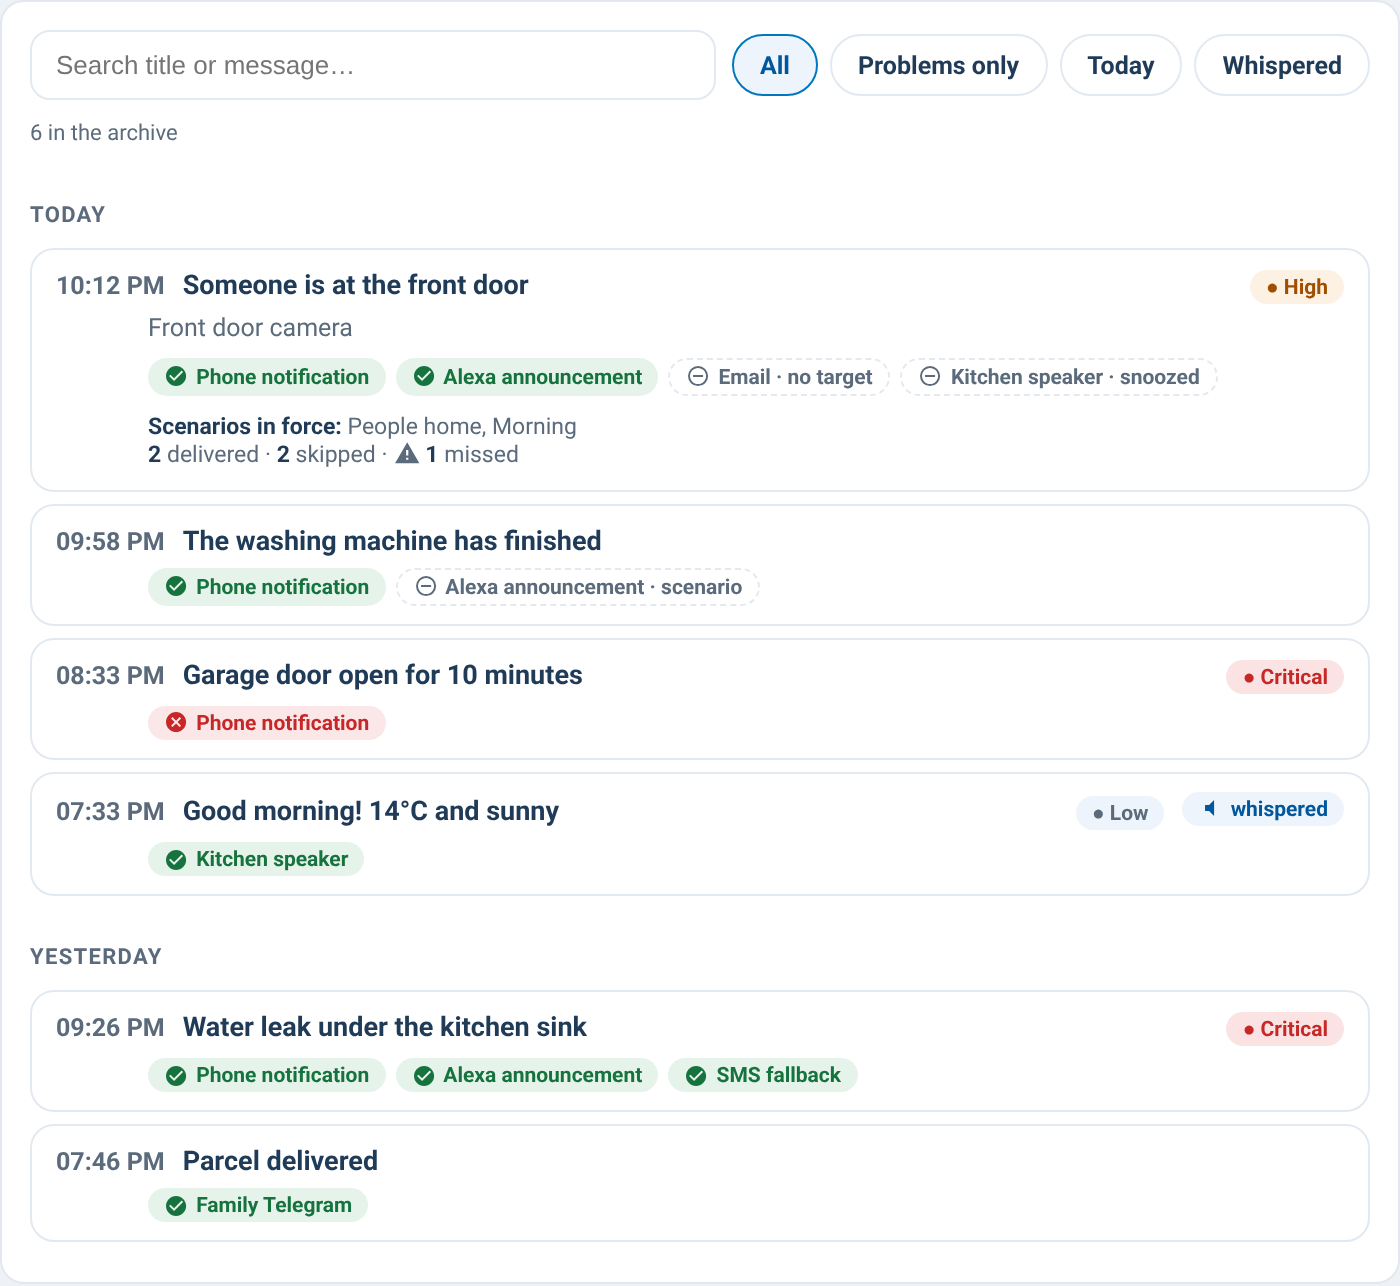
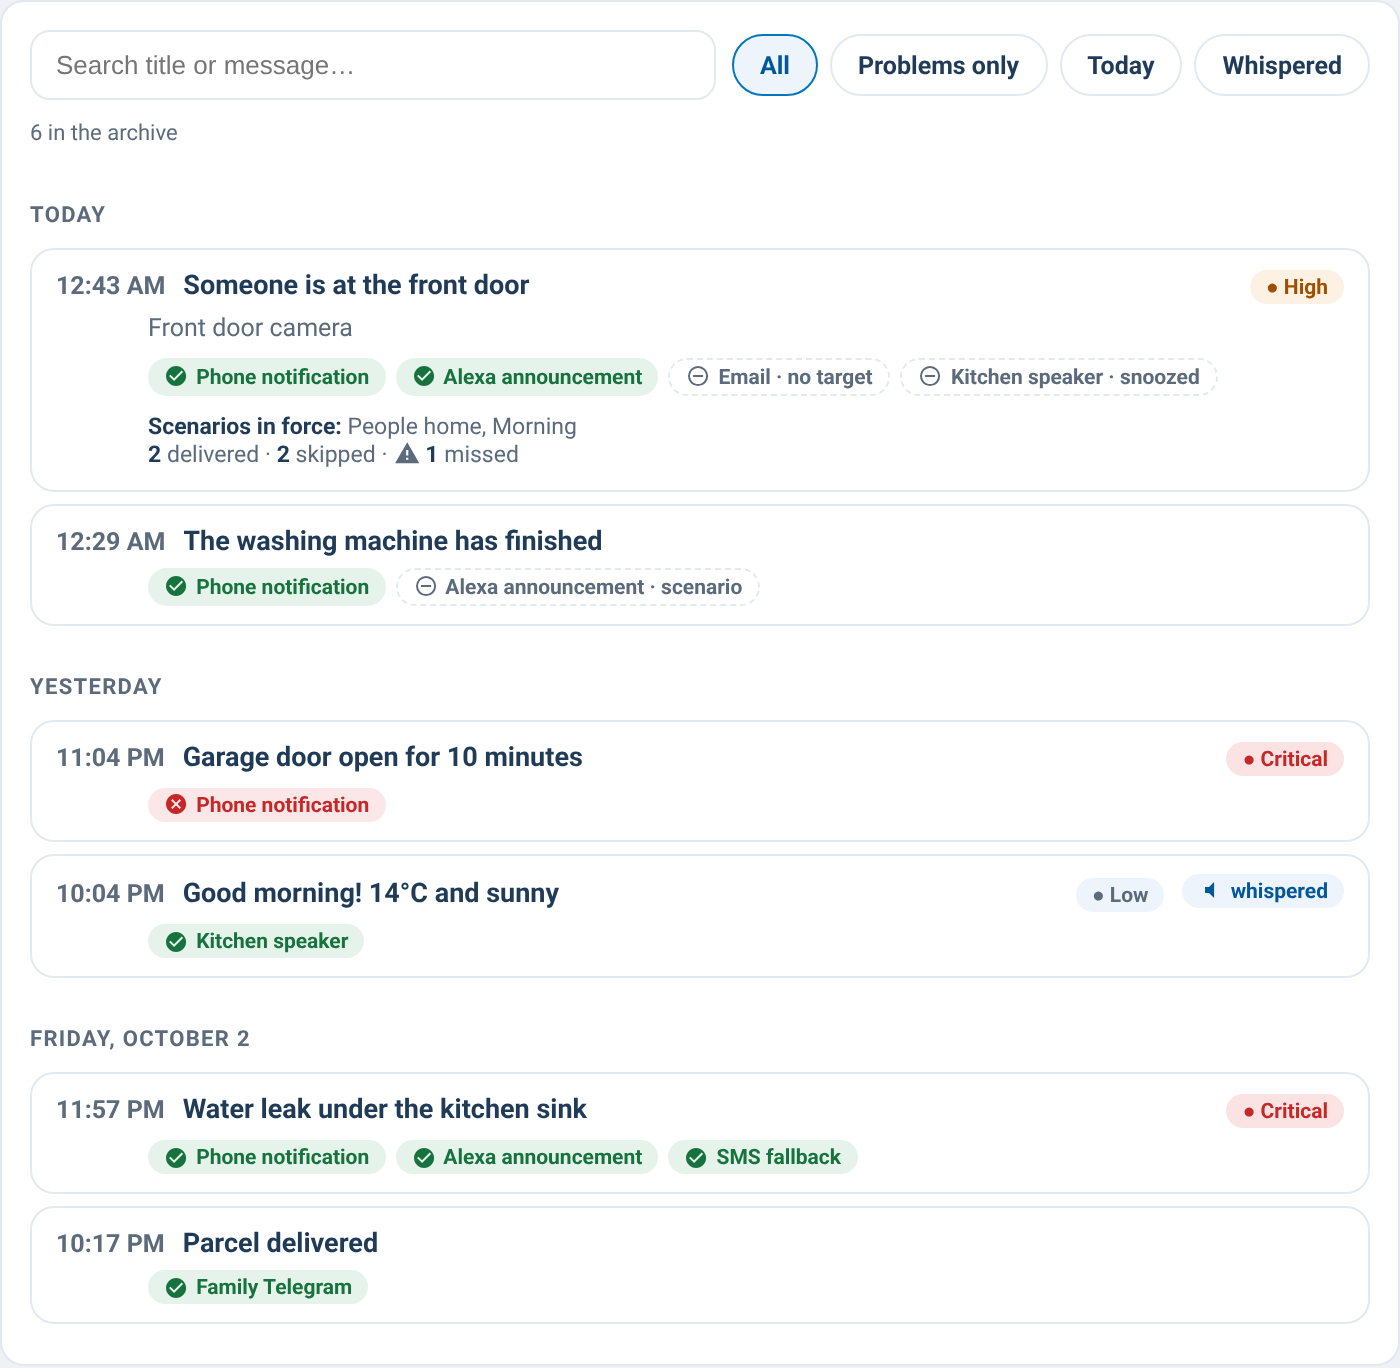
v0.60.0: real data - active scenarios from SuperNotify, notification title, real failures, toggle any domain, no double channels
Claude-Session: https://claude.ai/code/session_01ALt6dhzSXi9QkgiwPM6yvM

diff --git a/dist/supernotify-control-card.js b/dist/supernotify-control-card.js
@@ -8,6 +8,15 @@
  * Example config: see README.md
  *
  * CHANGELOG
+ * 2026-10-04 - v0.60.0. Real data (gap analysis of 03/10). (A1) Active scenarios come from
+ *   enquire_active_scenarios (snActive, every 30 s and after a change) - SuperNotify 2.12.0 can leave
+ *   the scenario binary_sensors at their startup value. (A2) snNotifTitle: the title lives in
+ *   condition_variables / the delivery envelopes, not at the top level (overview and control showed
+ *   no title). (A3) overview "Failures" = failed channel sends today from the archive;
+ *   sensor.supernotify_failures only counts crashes inside SuperNotify. (A8) control: tiles and group
+ *   pills toggle any domain (a switch.* DND did nothing). (A9) overview and composer list each
+ *   delivery once, by its name (switch over the deprecated binary_sensor); transports count "used
+ *   by" over every delivery.
  * 2026-10-03 - v0.59.2. No code change: README links the changelog near the top, so HACS shows it.
  * 2026-10-03 - v0.59.1. Contrast measured on every text of the 13 cards in both themes
  *   (tools/contrast_audit.mjs): light-theme green #1b7f45 -> #17733d (it was 4.2-4.4:1 on the green
@@ -392,7 +401,7 @@
  *   Backup of the pre-change file: X:\sn_backups\supernotify_cards_20260908\supernotify-control-card_pre_toggle.js
  */
 
-const VERSION = "0.59.2"; // bundle / HACS release
+const VERSION = "0.60.0"; // bundle / HACS release
 
 /**
  * Per-card versions: bumped ONLY when that card changes (the bundle VERSION
@@ -403,15 +412,15 @@ const VERSION = "0.59.2"; // bundle / HACS release
  * without a bump here.
  */
 const SN_CARD_VERSIONS = {
-  control: "0.30.3",
-  overview: "0.29.2",
+  control: "0.31.0",
+  overview: "0.30.0",
   bands: "0.20.1",
   deliveries: "0.26.1",
-  transports: "0.23.1",
+  transports: "0.23.2",
   recipients: "0.26.3",
-  scenarios: "0.25.1",
+  scenarios: "0.26.0",
   simulator: "0.15.2",
-  composer: "0.19.2",
+  composer: "0.19.3",
   automations: "0.20.2",
   stats: "0.28.2",
   archive: "0.36.3",
@@ -434,7 +443,7 @@ const SN_STRINGS = {
     announced: "Announced", cleared: "Snoozes cleared",
     snoozed_for: "Snoozed non-critical notifications for",
     sent: "Sent", sent_today: "Sent today", since_startup: "since startup",
-    yesterday: "yesterday", failures: "Failures", deliveries: "Deliveries",
+    yesterday: "yesterday", failures: "Failures", fail_today: "failed channel sends today", deliveries: "Deliveries",
     enabled_total: "enabled/total", last_notif: "Last notification",
     transports: "Transports", delivered: "delivered", failed: "failed",
     channels: "channels", none: "none", no_transports: "no transport entities found", tr_used: "used by", tr_unused: "no channel uses it",
@@ -525,7 +534,7 @@ const SN_STRINGS = {
     announced: "Annunciato", cleared: "Pause annullate",
     snoozed_for: "Notifiche non critiche in pausa per",
     sent: "Inviate", sent_today: "Inviate oggi", since_startup: "dall'avvio",
-    yesterday: "ieri", failures: "Fallimenti", deliveries: "Delivery",
+    yesterday: "ieri", failures: "Fallimenti", fail_today: "invii falliti oggi", deliveries: "Delivery",
     enabled_total: "attive/totali", last_notif: "Ultima notifica",
     transports: "Transport", delivered: "consegnata", failed: "fallite",
     channels: "canali", none: "nessuno", no_transports: "nessuna entità transport trovata", tr_used: "usato da", tr_unused: "nessun canale lo usa",
@@ -731,6 +740,7 @@ function snSetBinaryState(hass, entityId, on) {
  * state write above.
  */
 function snToggle(hass, entityId, on) {
+  if (/\.supernotify_scenario_/.test(entityId)) setTimeout(() => snEnquireBust(), 800);
   if (entityId && entityId.startsWith("switch.")) {
     return hass.callService("switch", on ? "turn_on" : "turn_off", { entity_id: entityId });
   }
@@ -860,6 +870,24 @@ function snTech(name, shown) {
 function snH12(hass) {
   const f = hass && hass.locale && hass.locale.time_format;
   return f === "12" ? true : f === "24" ? false : undefined;
+}
+
+/**
+ * Title of a notification document (0.60.0): SuperNotify keeps it in condition_variables and in
+ * each delivery envelope, not at the top level, so `n.title` alone is empty.
+ */
+function snNotifTitle(n) {
+  if (!n || typeof n !== "object") return "";
+  if (n.title) return n.title;
+  const cv = n.condition_variables;
+  if (cv && cv.notification_title) return cv.notification_title;
+  for (const d of Object.values(n.deliveries || {})) {
+    for (const k of ["success", "error", "suppressed"]) {
+      const env = d && Array.isArray(d[k]) && d[k].find((e) => e && e.title);
+      if (env) return env.title;
+    }
+  }
+  return "";
 }
 
 function snW(T, key, n) {
@@ -1006,9 +1034,38 @@ function snCleanName(fn, techName) {
  * (SuperNotify >= 2.7.0). Active = conditions hold AND not switched off.
  */
 function snScenarioActive(hass, bsId) {
-  if (!hass || !hass.states[bsId] || hass.states[bsId].state !== "on") return false;
+  if (!hass) return false;
   const sw = hass.states[bsId.replace(/^binary_sensor\./, "switch.")];
+  // 0.60.0: SuperNotify 2.12.0 can leave the scenario binary_sensors at their startup value
+  // (seen on a real install: 10 hours unchanged while the time-of-day scenarios moved on), so
+  // the answer of enquire_active_scenarios, refreshed every 30 s, wins when it is known
+  snActiveEnsure(hass);
+  if (snActive.names) {
+    const name = bsId.replace(/^(binary_sensor|switch)\.supernotify_scenario_/, "");
+    return snActive.names.has(name) && (!sw || sw.state !== "off");
+  }
+  if (!hass.states[bsId] || hass.states[bsId].state !== "on") return false;
   return !sw || sw.state !== "off";
+}
+
+/**
+ * Active scenarios as SuperNotify computes them (0.60.0): enquire_active_scenarios, at most
+ * every 30 s (sooner after a change made from a card, see snEnquireBust). `v` grows when the
+ * list changes, so the cards' change tracker (snChanged) redraws them.
+ */
+const snActive = { names: null, t: 0, busy: false, v: 0 };
+function snActiveEnsure(hass) {
+  if (!hass || !hass.callWS || snActive.busy || Date.now() - snActive.t < 30000) return;
+  const svc = hass.services && hass.services.supernotify;
+  if (svc && !svc.enquire_active_scenarios) return;
+  snActive.busy = true;
+  snActive.t = Date.now();
+  snEnquire(hass, "enquire_active_scenarios").then((r) => {
+    const list = (r && r.response && r.response.scenarios) || [];
+    const next = new Set(list.map((x) => String(x).replace(/^(binary_sensor|switch)\.supernotify_scenario_/, "")));
+    const prev = snActive.names;
+    if (!prev || prev.size !== next.size || [...next].some((x) => !prev.has(x))) { snActive.names = next; snActive.v++; }
+  }).catch(() => {}).finally(() => { snActive.busy = false; });
 }
 
 /**
@@ -1485,6 +1542,7 @@ function snEnquire(hass, service, data) {
 }
 function snEnquireBust(delay) {
   SN_ENQ.clear();
+  snActive.t = 0; // a change made from a card: read the active scenarios again too
   const fire = () => { SN_ENQ.clear(); window.dispatchEvent(new CustomEvent("supernotify-refresh")); };
   if (delay) setTimeout(fire, delay); else fire();
 }
@@ -1611,7 +1669,7 @@ function snChanged(tr, hass) {
   const p = tr.snap;
   if (!p || !hass || !hass.states) return true;
   if (p.lang !== hass.language || p.themes !== hass.themes || p.entities !== hass.entities ||
-      p.services !== hass.services || p.minute !== Math.floor(Date.now() / 60000)) return true;
+      p.services !== hass.services || p.minute !== Math.floor(Date.now() / 60000) || p.act !== snActive.v) return true;
   if (tr.scanned && p.count !== Object.keys(hass.states).length) return true;
   if (tr.keys.size !== p.objs.size) return true; // the card looked at something new
   for (const [k, obj] of p.objs) if (hass.states[k] !== obj) return true;
@@ -1625,6 +1683,7 @@ function snSnap(tr, hass) {
   tr.snap = {
     objs, lang: hass.language, themes: hass.themes, entities: hass.entities, services: hass.services,
     minute: Math.floor(Date.now() / 60000), count: tr.scanned ? Object.keys(hass.states).length : 0,
+    act: snActive.v,
   };
 }
 
@@ -1833,8 +1892,12 @@ class SupernotifyControlCard extends HTMLElement {
     const s = this._hass && this._hass.states[entityId];
     return (s && s.attributes.friendly_name) || fallback || entityId;
   }
+  // 0.60.0: any domain (input_boolean, switch, light, fan...) - the visual editor also offers switch.*
   _toggle(entityId) {
-    this._hass.callService("input_boolean", "toggle", { entity_id: entityId });
+    const dom = String(entityId).split(".")[0];
+    if (["input_boolean", "switch", "light", "fan", "automation", "siren", "humidifier"].includes(dom))
+      this._hass.callService(dom, "toggle", { entity_id: entityId });
+    else this._hass.callService("homeassistant", "toggle", { entity_id: entityId });
   }
 
   _activeBand() {
@@ -2064,7 +2127,7 @@ class SupernotifyControlCard extends HTMLElement {
     const esc = (s) => String(s == null ? "" : s).replace(/&/g, "&amp;").replace(/</g, "&lt;");
     const n = this._last;
     const titleFromEntity = c.last_notification_entity ? this._st(c.last_notification_entity) : undefined;
-    const title = (n && n.title) || (titleFromEntity && !["unknown", "unavailable", ""].includes(titleFromEntity) ? titleFromEntity : "");
+    const title = snNotifTitle(n) || (titleFromEntity && !["unknown", "unavailable", ""].includes(titleFromEntity) ? titleFromEntity : "");
     let msg = snPlainMsg(n && n.message);
     if (c.last_notification_strip) {
       try { msg = msg.replace(new RegExp(c.last_notification_strip, "m"), "").trim(); } catch (e) { /* bad regex: ignore */ }
@@ -2356,7 +2419,7 @@ class SupernotifyOverviewCard extends HTMLElement {
       else if (/restart/i.test(a.release_summary || "")) chips.push({ k: "warn", t: `🔄 ${T.h_restart}` });
       else chips.push({ k: "ok", t: `✔ SuperNotify ${a.installed_version || ""} ${T.h_uptodate}` });
     }
-    const failures = +this._st("sensor.supernotify_failures") || 0;
+    const failures = this._failures().n || 0;
     if (failures > 0) chips.push({ k: "crit", t: `✖ ${snPl(T, "h_failures", failures)}` });
     const trErr = this._scan("transport").filter((t) => {
       const st = this._hass.states[t.id];
@@ -2383,11 +2446,14 @@ class SupernotifyOverviewCard extends HTMLElement {
     this._refresh();
     this._onRefresh = this._onRefresh || (() => this._refresh());
     window.addEventListener("supernotify-refresh", this._onRefresh);
+    this._onArchive = this._onArchive || (() => { if (this._rendered) this._update(); });
+    window.addEventListener("supernotify-archive", this._onArchive);
   }
 
   disconnectedCallback() {
     clearInterval(this._pollTimer);
     if (this._onRefresh) window.removeEventListener("supernotify-refresh", this._onRefresh);
+    if (this._onArchive) window.removeEventListener("supernotify-archive", this._onArchive);
   }
 
   _palette() {
@@ -2439,15 +2505,30 @@ class SupernotifyOverviewCard extends HTMLElement {
     if (this._rendered) this._update();
   }
 
+  // 0.60.0: one row per delivery / transport (switch preferred over the deprecated
+  // binary_sensor, so nothing is counted twice), named by its `name` attribute
   _scan(kind) {
-    // Entities exposed by SuperNotify: <domain>.supernotify_<kind>_<name>
-    const out = [];
-    if (!this._hass) return out;
-    for (const id of Object.keys(this._hass.states)) {
-      const m = id.match(new RegExp(`^[a-z_]+\\.supernotify_${kind}_(.+)$`));
-      if (m) out.push({ id, name: m[1], state: this._hass.states[id].state });
+    if (!this._hass) return [];
+    return snEntityRows(this._hass, kind).map((r) => ({ id: r.id, name: r.name, state: this._hass.states[r.id].state }));
+  }
+
+  // 0.60.0: sensor.supernotify_failures only counts crashes inside SuperNotify, never a channel
+  // that failed; with the native archive count the failed channel sends of today instead
+  _failures() {
+    if (this._hass && snArchiveNative(this._hass, this._config)) {
+      snArchiveStore.ensure(this._hass, 40, this._config.trigger_entity);
+      if (snArchiveStore.fetched) {
+        const d0 = new Date(); d0.setHours(0, 0, 0, 0);
+        let n = 0;
+        for (const doc of snArchiveStore.docs) {
+          const t = doc && doc.created ? new Date(doc.created) : null;
+          if (t && t >= d0) n += +doc.failed || 0;
+        }
+        return { n, today: true };
+      }
     }
-    return out;
+    const v = this._st("sensor.supernotify_failures");
+    return { n: v != null && v !== "unknown" && v !== "unavailable" ? +v || 0 : null, today: false };
   }
 
   _render() {
@@ -2540,7 +2621,8 @@ class SupernotifyOverviewCard extends HTMLElement {
     if (!this.shadowRoot) return;
     const esc = (s) => String(s == null ? "" : s).replace(/&/g, "&amp;").replace(/</g, "&lt;");
     const sent = this._st("sensor.supernotify_notifications");
-    const failures = this._st("sensor.supernotify_failures");
+    const fail = this._failures();
+    const failures = fail.n;
     const dels = this._scan("delivery");
     const delsOn = dels.filter((d) => d.state === "on").length;
     const reactiveAct = this._activeScenarios();
@@ -2596,7 +2678,7 @@ class SupernotifyOverviewCard extends HTMLElement {
     const statsEl = this.shadowRoot.getElementById("stats");
     statsEl.innerHTML =
       snIconify(sentStat +
-      stat("⚠ " + T.failures, failures != null ? esc(failures) : "—", "", +failures > 0 ? p.crit : p.ok) +
+      stat("⚠ " + T.failures, failures != null ? esc(failures) : "—", fail.today ? T.fail_today : "", +failures > 0 ? p.crit : p.ok) +
       (this._config.stats === "full" ? stat("🎬 " + T.act_scen, act ? act.length : "—", "") : "") +
       stat("📤 " + T.deliveries, dels.length ? `${delsOn}/${dels.length}` : "—", T.enabled_total) +
       (this._config.stats !== "full" ? "" : stat("😴 " + T.snoozed, snz.length, snz.length && snz[0]._end ? T.until + " " + esc(String(snz[0]._end.getHours()).padStart(2, "0") + ":" + String(snz[0]._end.getMinutes()).padStart(2, "0")) : "", snz.length ? p.warn : undefined)), this && this._config);
@@ -2607,7 +2689,7 @@ class SupernotifyOverviewCard extends HTMLElement {
     const lastEl = this.shadowRoot.getElementById("last");
     if (lastEl && this._last) {
       const n = this._last;
-      const title = snPlainMsg(n.title);
+      const title = snPlainMsg(snNotifTitle(n));
       const msg = snPlainMsg(n.message).slice(0, 600);
       const prioCol = { critical: p.crit, high: p.warn, medium: p.brandD, low: p.muted, minimum: p.muted }[n.priority];
       const d = n.created ? new Date(n.created) : null;
@@ -3355,8 +3437,7 @@ class SupernotifyTransportsCard extends HTMLElement {
       let alias = snCleanName(t.a.friendly_name, t.name);
       if (/Transport Adaptor$/i.test(alias)) alias = "";
       const label = alias || SN_TRANSPORT_LABELS[t.name] || t.name;
-      const used = Object.keys(this._hass.states).filter((e) => e.startsWith("switch.supernotify_delivery_")
-        && this._hass.states[e].attributes && this._hass.states[e].attributes.transport === t.name).length;
+      const used = snEntityRows(this._hass, "delivery").filter((d) => d.a && d.a.transport === t.name).length;
       const use = used ? `${T.tr_used} ${snPl(T, "channels", used)}` : T.tr_unused;
       return `<div class="row" data-i="${i}">
         <span class="em">${em}</span>
@@ -3736,6 +3817,8 @@ class SupernotifyScenariosCard extends HTMLElement {
   // array) when every scenario is still "unknown"/"unavailable", so the
   // caller can fall back to the polled list on older SuperNotify versions.
   _reactiveActive(all) {
+    snActiveEnsure(this._hass);
+    if (snActive.names) return all.filter((s) => snActive.names.has(s.name) && s.enabled).map((s) => s.name);
     const known = all.filter((s) => !["unknown", "unavailable"].includes(s.state));
     if (!known.length) return null;
     return known.filter((s) => s.state === "on" && s.enabled).map((s) => s.name);
@@ -4171,14 +4254,11 @@ class SupernotifyComposerCard extends HTMLElement {
   _deliveries() {
     // name + transport (the latter needed to tell whether an explicitly
     // picked channel actually resolves an area/floor/label target).
-    const out = [];
-    if (!this._hass) return out;
-    for (const id of Object.keys(this._hass.states)) {
-      const m = id.match(/^[a-z_]+\.supernotify_delivery_(.+)$/);
-      if (m && !/^default_/i.test(m[1]))
-        out.push({ name: m[1], transport: (this._hass.states[id].attributes || {}).transport || "" });
-    }
-    return out.sort((x, y) => x.name.localeCompare(y.name));
+    if (!this._hass) return [];
+    // 0.60.0: snEntityRows - switch over the deprecated binary_sensor, no double chips
+    return snEntityRows(this._hass, "delivery").filter((d) => !/^default_/i.test(d.name))
+      .map((d) => ({ name: d.name, transport: (d.a && d.a.transport) || "" }))
+      .sort((x, y) => x.name.localeCompare(y.name));
   }
 
   _render() {

diff --git a/CHANGELOG.md b/CHANGELOG.md
@@ -3,6 +3,23 @@
 All notable changes to **supernotify-control-card** are documented here.
 Format based on [Keep a Changelog](https://keepachangelog.com/en/1.1.0/).
 
+## [0.60.0] - 2026-10-04
+
+Real data: what the cards show now matches what SuperNotify does.
+
+### Fixed
+- Active scenarios come from SuperNotify itself (`enquire_active_scenarios`, read every 30 s and right
+  after a change made from a card). SuperNotify 2.12.0 can leave the scenario binary_sensors at their
+  startup value, so the scenarios, overview and control cards could show the wrong scenarios as active.
+- The last notification's title is shown again: SuperNotify keeps it in `condition_variables` and in
+  each delivery, not at the top level of the notification.
+- Overview "Failures" counts the channel sends that failed today (from the archive).
+  `sensor.supernotify_failures` only counts crashes inside SuperNotify, so it stayed at 0 when a
+  channel failed. Without the native archive the card still falls back to the sensor.
+- Control: tiles and group pills toggle any domain - a `switch.*` do-not-disturb did nothing.
+- Overview and composer list each channel once, by its name, also where the deprecated
+  binary_sensor still exists next to the switch; the transports card counts "used by" over all of them.
+
 ## [0.59.2] - 2026-10-03
 
 ### Changed
